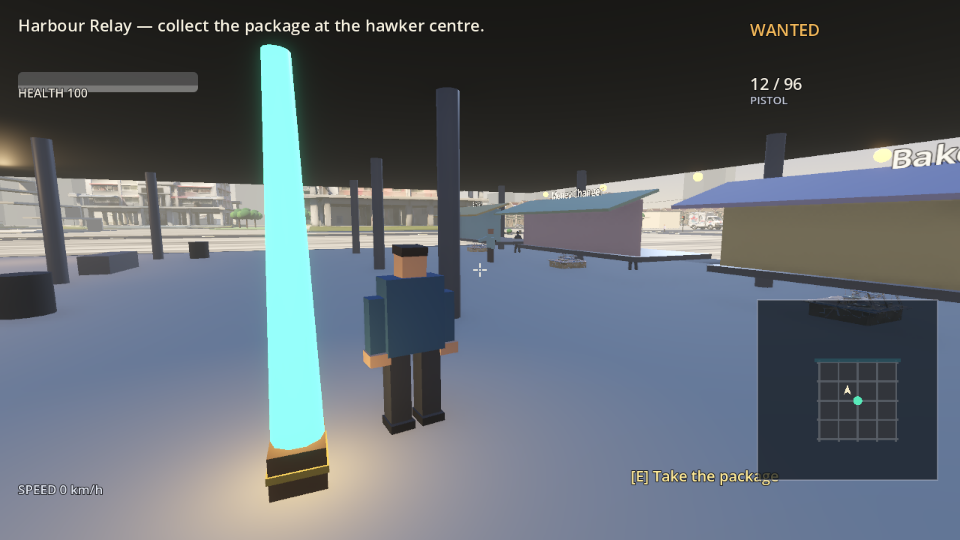
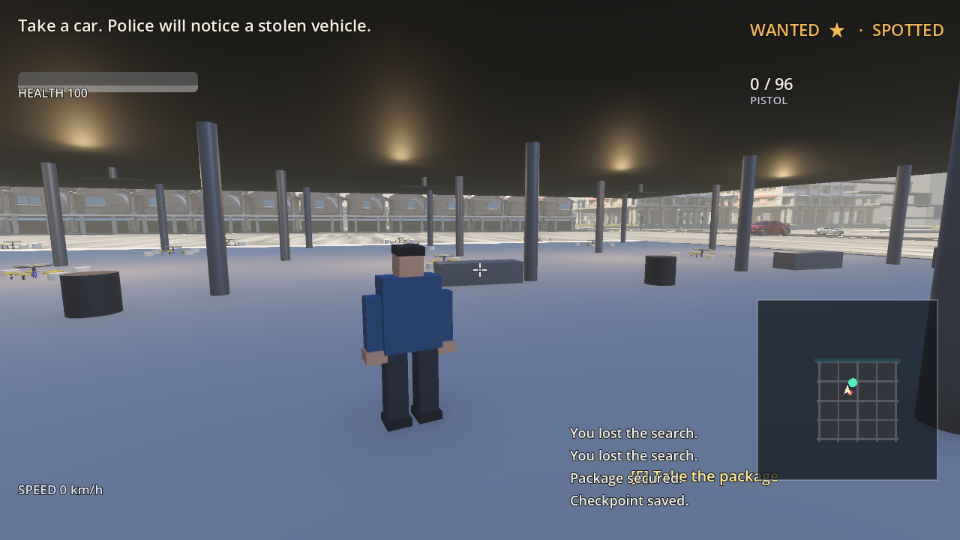
Wave 1: record the input-edge and interaction findings, fill the asset rights table

diff --git a/waves/01/HANDOFF.md b/waves/01/HANDOFF.md
@@ -44,6 +44,14 @@ Copy of the [wave handoff template](../../../docs/WAVE_HANDOFF.md), filled with 
 
 Full table in `docs/asset-manifest.csv`. Summary: all original code is MIT (this repository). The eight Customuse models and ten Tripo props are **provider terms, not MIT**; they are staged in `game/assets/providers/` (git-ignored), their public URLs and SHA256 values are recorded, and they are re-fetchable with `game/tools/fetch_provider_assets.sh`. The rights check in `docs/ASSET_RIGHTS.md` found that the Customuse terms (19 June 2026) permit lawful personal and commercial use of the outputs with no attribution requirement, and no third-party marks were present in the reviewed outputs — so **redistribution is permitted** and the binaries are excluded for repository size, not for rights. The generated concept board in `docs/concepts/` is project-owned art committed by the manager. No GTA asset, no third-party model and no credential is in the tree.
 
+| Asset / path | Provider or source | Date | License / terms reference | Attribution required | Public redistribution confirmed? | Included or excluded |
+| --- | --- | --- | --- | --- | --- | --- |
+| `W1-HERO-001` sedan, `002` coupe, `003` delivery van, `004` helicopter, `005` player figure, `006` officer, `007` shophouse module, `008` housing slab (raw GLB + cleaned game asset) | Customuse MCP (8 jobs, 1 400 credits of existing balance) | 2026-10-21 | <https://customuse.com/terms> (19 June 2026) | no | yes — terms grant lawful personal and commercial use; only third-party infringement is restricted, and no third-party content was found | **excluded from git** for repository size; source IDs, URLs and SHA256 in `docs/asset-manifest.csv`, re-fetchable with `game/tools/fetch_provider_assets.sh` |
+| `W1-PROP-010`…`018` hawker table, food trolley, street lamp, air-con unit, planter, service clutter, airfield clutter, hawker counter (raw GLB + cleaned game asset) | Tripo browser (10 props, 550 credits of existing balance) | 2026-10-21 | <https://www.tripo3d.ai/help/privacy-policy/how-to-use-tripo-models-commercially> | no | yes for these outputs, subject to the same third-party-mark restriction; mark inspection was done for three of the ten | **excluded from git** for repository size; same fetch and provenance path |
+| `docs/concepts/*.png` (3) and `docs/concepts/prompts.json` | generated concept board for this project, produced by the manager | 2026-10-21 | project-owned art | not applicable | yes | **included** (committed on the task branch) |
+| `docs/asset-deliveries/wave-01.json` | manager's delivery record (source IDs, hashes, actual credit spend) | 2026-10-21 | internal record | not applicable | yes (contains no credentials) | **included** |
+| All original code, procedural geometry, materials and the procedural audio bank | this repository | 2026-10-21 | MIT (this repository) | not applicable | yes | **included** |
+
 ## Verdict (END_GOAL VERIFY-08)
 
 **Playable experimental build with unmet requirements.** Not "north star accepted", and not "not yet reliably playable".

diff --git a/docs/REQUIREMENTS_LEDGER.md b/docs/REQUIREMENTS_LEDGER.md
@@ -164,3 +164,6 @@ An independent critic (a subagent of the **same MiniMax model** — this profile
 | Traffic has no signal phase, priority or crossing behaviour; pedestrians cannot route around geometry | structural | **Not fixed — recorded as a successor task.** It needs a junction model and a navigation mesh, not a patch |
 | The audio bank has no spatialisation, and the shot ray starts at the camera while the muzzle flash sits on the arm | medium | **Not fixed — recorded as a successor task** (COMBAT-02, COMBAT-05) |
 | No frame-time capture, stress route or soak harness | medium | **Not fixed — recorded as a successor task** (PERF-02/03/04, QA-020) |
+| Interaction always preferred a vehicle over a mission interactable, so a parcel at the player's feet lost to a car parked further away | high | **Fixed**: the closest target wins, whatever it is (vehicles and props compete on distance, each with its own reach) |
+| `Input.is_action_just_pressed()` is tied to the frame in which the press was parsed, so a press injected after the player's turn in the frame was invisible — the scripted playthrough could lose an interact entirely | high | **Fixed**: the player watches the *held* state of an action and fires once per press, so human and scripted input share one frame-safe path |
+| The market encounter was unwinnable in practice: the guard posts and the counter row blocked the aisle, so the player could not reach the package at all | high | **Fixed**: the guards hold the stall line and never the centre aisle, the package sits in the open dining aisle, and the pickup reach is 7.5 m; covered by the "the mission package can be picked up" and "picking up the package advances the mission" checks |

diff --git a/NEXT_GOAL.md b/NEXT_GOAL.md
@@ -44,6 +44,8 @@
 
 - `game/src/core/game_state.gd` as the single authority for health, mode, wanted level, mission stage and save/load; `game/src/core/events.gd` as the only cross-system bus (SYSTEM-01).
 - The `Game` / `Events` autoload contract and the `ASSET_REQUESTS.json` request schema.
+- The frame-safe input path in `Player._consume_press()`: the player reacts to the **held** state of an action once per press, not to `Input.is_action_just_pressed()`. A press injected after the player's turn in a frame is otherwise lost, which silently broke the scripted playthrough. Do not go back to `is_action_just_pressed` for the polled actions (fire, reload, weapon swap, interact).
+- Nearest-target interaction: vehicles and mission interactables compete on distance, each with its own reach (`INTERACT_RANGE` 5 m, `PICKUP_RANGE` 7.5 m).
 - The transition table and its invariants in `docs/TRANSITION_TABLE.md`.
 - The rights position in `docs/ASSET_RIGHTS.md`: provider terms permit redistribution, and every asset is reproducible from `game/tools/fetch_provider_assets.sh`.
 - The left-hand-traffic lane graph (`traffic_manager.gd`, 25 junctions, left-lane offset) and the arcade vehicle model — both work and are cheap to keep.
